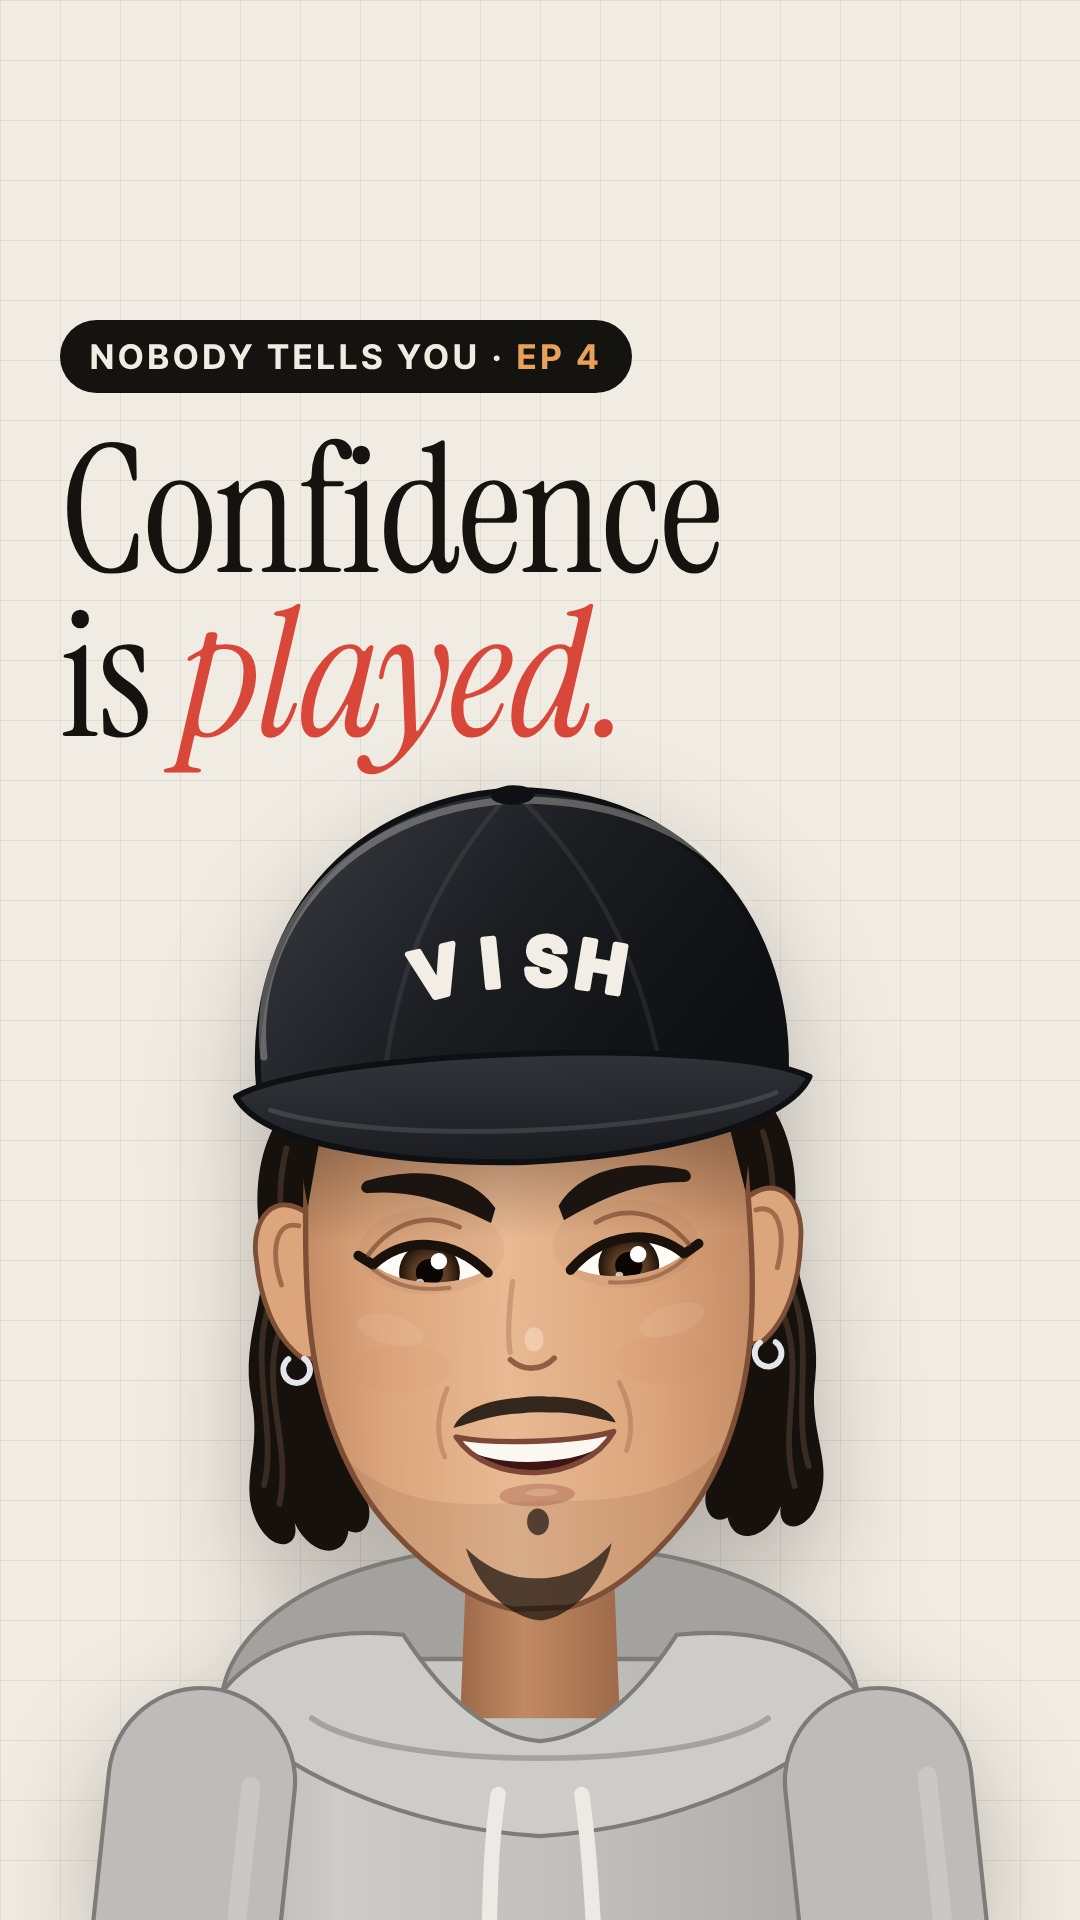
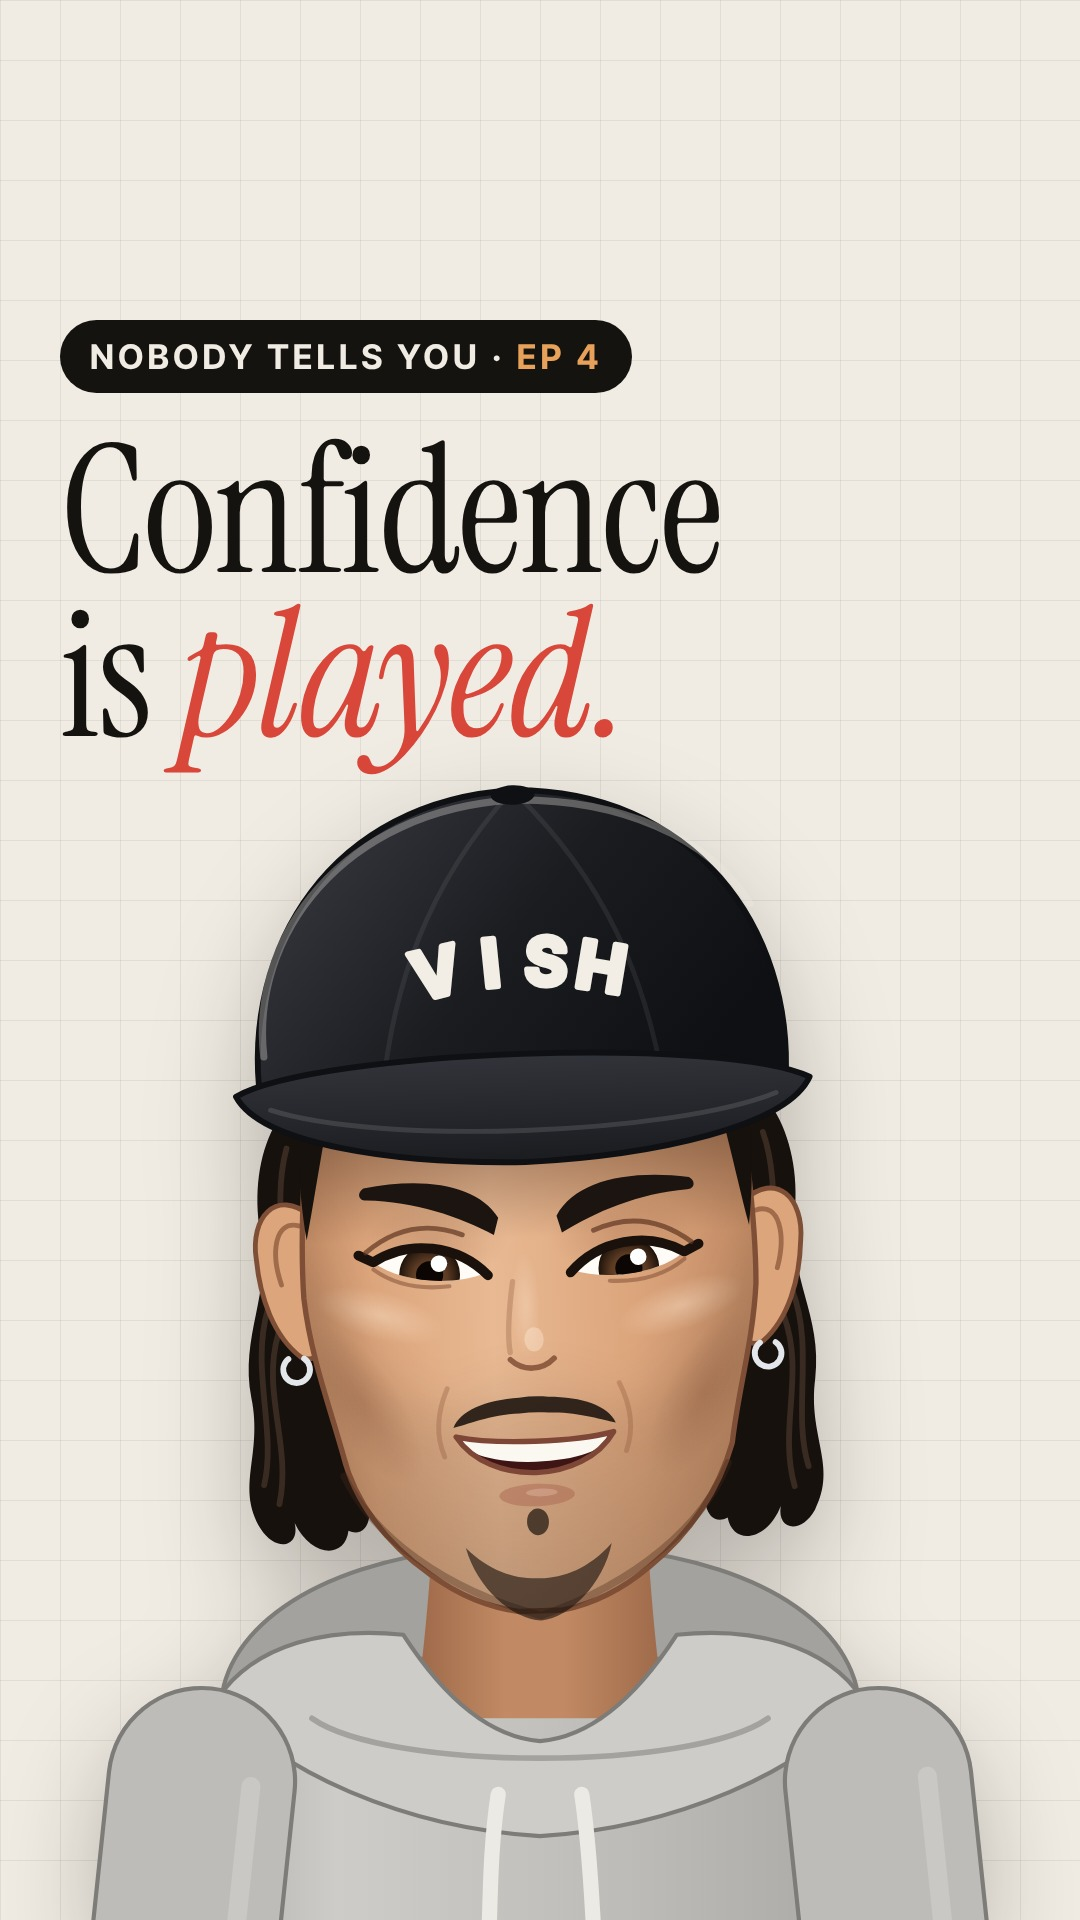
Mascot: a model's face that still looks like Vish: lit cheekbones with a soft hollow, a light clean beard shade, a stronger neck, hooded eyes, lower brows
Claude-Session: https://claude.ai/code/session_01BUA343UgLrj2H1ng6qoZ8Y

Changed region(s): [[0.275, 0.5938, 0.7028, 0.9062], [0.3361, 0.5938, 0.4583, 0.6875], [0.5194, 0.5938, 0.6417, 0.6875]]

diff --git a/templates/video/char/vishcap.js b/templates/video/char/vishcap.js
@@ -46,7 +46,7 @@
     point_left: {L: {u: 172, f: 178, h: "point"}, R: {u: 83, f: 87, h: "relax"}, turn: -0.35, look: [-0.8, 0]},
     point_right: {L: {u: 97, f: 93, h: "relax"}, R: {u: 8, f: 2, h: "point"}, turn: 0.35, look: [0.8, 0]},
     present: {L: {u: 97, f: 93, h: "relax"}, R: {u: 40, ul: 0.9, f: -12, h: "open", ha: -30}, turn: 0.3, look: [0.7, 0.1]},
-    think: {L: {u: 70, ul: 0.8, f: 2, h: "fist"}, R: {u: 118, ul: 0.62, f: -110, fl: 0.92, h: "chin"}, expr: "thought"},
+    think: {L: {u: 70, ul: 0.8, f: 2, h: "fist"}, R: {u: 118, ul: 0.62, f: -108, fl: 0.84, h: "chin"}, expr: "thought"},
     arms: {L: {u: 80, ul: 0.72, f: -2, fl: 1.1, h: "tuck"}, R: {u: 100, ul: 0.72, f: 182, fl: 1.1, h: "fist", ha: 150}, order: ["L", "R"]},
     thumbs: {L: {u: 96, f: 92, h: "relax"}, R: {u: 100, ul: 0.7, f: -50, fl: 0.9, h: "thumb", ha: 0}},
     wave: {L: {u: 97, f: 93, h: "relax"}, R: {u: 18, ul: 0.9, f: -80, h: "palm"}, wave: 1}};
@@ -61,6 +61,25 @@
     line(); g.strokeStyle = col; g.lineWidth = w; g.stroke();
   }
   const pt = (o, a, l) => [o[0] + Math.cos(a * R) * l, o[1] + Math.sin(a * R) * l];
+  function blob(g, x, y, rx, ry, rot, rgb, a) {  // a soft elliptical shade: rgb is "rgba(r,g,b," and a its peak alpha
+    g.save(); g.translate(x, y); g.rotate(rot); g.scale(rx, ry);
+    const gr = g.createRadialGradient(0, 0, 0, 0, 0, 1); gr.addColorStop(0, rgb + a + ")"); gr.addColorStop(1, rgb + "0)");
+    g.fillStyle = gr; g.beginPath(); g.arc(0, 0, 1, 0, Math.PI * 2); g.fill(); g.restore();
+  }
+  const OFF = new WeakMap();
+  function offscreen(g) {  // a scratch canvas the size of the target, for masked layers
+    let c = OFF.get(g.canvas);
+    if (!c || c.width !== g.canvas.width || c.height !== g.canvas.height) { c = document.createElement("canvas"); c.width = g.canvas.width; c.height = g.canvas.height; OFF.set(g.canvas, c); }
+    return c;
+  }
+  const STUB = new WeakMap();
+  function stubble(g) {  // fine dark dots, the same every frame
+    if (STUB.has(g)) return STUB.get(g);
+    const c = document.createElement("canvas"); c.width = c.height = 48; const x = c.getContext("2d"); let s = 11;
+    const rnd = () => (s = (s * 16807) % 2147483647) / 2147483647;
+    for (let i = 0; i < 620; i++) { x.fillStyle = `rgba(28,17,11,${0.3 + rnd() * 0.45})`; x.beginPath(); x.arc(rnd() * 48, rnd() * 48, 0.28 + rnd() * 0.36, 0, Math.PI * 2); x.fill(); }
+    const pat = g.createPattern(c, "repeat"); STUB.set(g, pat); return pat;
+  }
 
   // ----------------------------------------------------------------------------------------------------- the head
   // head space: the eye line's centre is (0, 0); the face is about 190 wide; the chin is at y 140; the cap top at -188
@@ -99,39 +118,54 @@
       g.restore();
       if (away < 0.5) { g.strokeStyle = C.silver; g.lineWidth = 2.4; g.beginPath(); g.arc(ex + sd * 8, 45, 5.5, -0.3 * Math.PI, 1.3 * Math.PI); g.stroke(); }
     }
-    // ---- the face: high cheekbones, a tapered jaw, a defined chin
+    // ---- the face, a model's: high cheekbones, a slight hollow under them, a sharp jaw, a strong chin
     const fo = new Path2D();
-    const pts = [[-87, -86], [-90, -40, -93, -2, -91, 26], [-89, 60, -78, 90, -60, 110], [-44, 128, -26, 140, -11, 143], [11, 143], [26, 140, 44, 128, 60, 110],
-      [78, 90, 89, 60, 91, 26], [93, -2, 90, -40, 87, -86]];
+    const pts = [[-86, -86], [-90, -50, -94, -12, -93, 16], [-91, 40, -84, 60, -79, 80], [-75, 98, -63, 115, -45, 128], [-33, 137, -21, 142, -9, 144], [9, 144],
+      [21, 142, 33, 137, 45, 128], [63, 115, 75, 98, 81, 80], [84, 60, 91, 40, 93, 16], [94, -12, 90, -50, 86, -86]];
     fo.moveTo(OX(pts[0][0]), pts[0][1]);
     for (const p of pts.slice(1)) {
       if (p.length === 2) fo.lineTo(OX(p[0]), JY(p[1])); else fo.bezierCurveTo(OX(p[0]), JY(p[1]), OX(p[2]), JY(p[3]), OX(p[4]), JY(p[5]));
     }
     fo.closePath();
     const fg = g.createLinearGradient(OX(-96), 0, OX(96), 0);
-    fg.addColorStop(0, C.skinS); fg.addColorStop(0.18, C.skin); fg.addColorStop(0.45, C.skinL); fg.addColorStop(0.75, C.skin); fg.addColorStop(1, C.skinS);
+    fg.addColorStop(0, C.skinS); fg.addColorStop(0.16, C.skin); fg.addColorStop(0.42, C.skinL); fg.addColorStop(0.72, C.skin); fg.addColorStop(1, C.skinS);
     g.fillStyle = fg; g.fill(fo);
     g.save(); g.clip(fo);
-    // stubble on the jaw and around the mouth, very light
-    g.fillStyle = "rgba(42,26,18,.08)";
-    g.beginPath(); g.moveTo(OX(-96), JY(50)); g.bezierCurveTo(OX(-84), JY(116), OX(-34), JY(148), FX(0), JY(148)); g.bezierCurveTo(OX(34), JY(148), OX(84), JY(116), OX(96), JY(50));
-    g.bezierCurveTo(OX(80), JY(96), FX(46), JY(104), FX(0), JY(100)); g.bezierCurveTo(FX(-46), JY(104), OX(-80), JY(96), OX(-96), JY(50)); g.fill();
+    // contour: a soft shadow under each cheekbone towards the mouth, a light on the bone above it, a light down the nose
+    for (const sd of [-1, 1]) {
+      blob(g, OX(sd * 70), JY(60), 15, 38, sd * 0.55, "rgba(118,62,38,", sd * tu > 0 ? 0.3 : 0.22);
+      blob(g, FX(sd * 62), 24, 27, 10, sd * -0.3, "rgba(255,234,210,", 0.42);
+    }
+    blob(g, FX(-2) + tu * 8, 22, 6, 22, 0, "rgba(255,236,214,", 0.3);
+    // stubble: a short, even shadow on the jaw, chin, upper lip and up the cheeks to the sideburns, fading at the cheekbones
+    const bd = new Path2D();
+    bd.moveTo(OX(-96), -24); bd.bezierCurveTo(OX(-86), 18, OX(-66), 48, FX(-38), JY(64));
+    bd.bezierCurveTo(FX(-28), 58, FX(-16), 52, FX(0), 52); bd.bezierCurveTo(FX(16), 52, FX(28), 58, FX(38), JY(64));
+    bd.bezierCurveTo(OX(66), 48, OX(86), 18, OX(96), -24); bd.lineTo(OX(120), 170); bd.lineTo(OX(-120), 170); bd.closePath();
+    // drawn through a soft mask (the region, blurred) so it fades up the cheeks with no edge
+    const T = g.getTransform(), k = Math.hypot(T.a, T.b), oc = offscreen(g), o2 = oc.getContext("2d");
+    o2.setTransform(1, 0, 0, 1, 0, 0); o2.clearRect(0, 0, oc.width, oc.height); o2.setTransform(T);
+    o2.filter = `blur(${Math.max(1, 9 * k)}px)`; o2.fillStyle = "#000"; o2.fill(bd); o2.filter = "none";
+    o2.globalCompositeOperation = "source-in";
+    const sg = o2.createRadialGradient(FX(0), 6, 50, FX(0), 30, 150);
+    sg.addColorStop(0, "rgba(40,26,18,.07)"); sg.addColorStop(0.5, "rgba(40,26,18,.17)"); sg.addColorStop(1, "rgba(34,22,16,.27)");
+    o2.fillStyle = sg; o2.fillRect(-150, -60, 300, 240);
+    o2.globalCompositeOperation = "source-atop"; o2.globalAlpha = 0.28; o2.fillStyle = stubble(o2); o2.fillRect(-150, -60, 300, 240);
+    o2.globalAlpha = 1; o2.globalCompositeOperation = "source-over";
+    g.save(); g.setTransform(1, 0, 0, 1, 0, 0); g.drawImage(oc, 0, 0); g.restore();
     // the cap's shadow on the forehead and the eye sockets
     const sh = g.createLinearGradient(0, -74, 0, -6); sh.addColorStop(0, "rgba(46,24,14,.6)"); sh.addColorStop(1, "rgba(46,24,14,0)");
     g.fillStyle = sh; g.fillRect(-130, -96, 260, 92);
-    g.fillStyle = "rgba(120,70,44,.06)";
-    for (const sd of [-1, 1]) { g.beginPath(); g.ellipse(FX(sd * 40), -2, 30, 18, 0, 0, Math.PI * 2); g.fill(); }
-    // warm cheeks and a light on the cheekbones
-    for (const sd of [-1, 1]) {
-      g.fillStyle = "rgba(214,118,92,.05)"; g.beginPath(); g.ellipse(FX(sd * 54), 46, 20, 10, 0, 0, Math.PI * 2); g.fill();
-      g.fillStyle = "rgba(255,226,196,.12)"; g.beginPath(); g.ellipse(FX(sd * 58), 30, 14, 6, sd * -0.3, 0, Math.PI * 2); g.fill();
-    }
+    for (const sd of [-1, 1]) blob(g, FX(sd * 38), -6, 30, 16, 0, "rgba(110,60,36,", 0.16);
     g.restore();
     g.strokeStyle = C.line; g.lineWidth = 2.2; g.stroke(fo);
-    // temple hair in front of the ears, under the cap
+    // a crisp jaw: a darker line under the jaw edge where it meets the neck
+    g.strokeStyle = "rgba(70,40,26,.35)"; g.lineWidth = 3;
+    g.beginPath(); g.moveTo(OX(-79), JY(88)); g.bezierCurveTo(OX(-68), JY(112), OX(-40), JY(134), FX(0), JY(146)); g.bezierCurveTo(OX(40), JY(134), OX(68), JY(112), OX(79), JY(88)); g.stroke();
+    // sideburns in front of the ears, under the cap, faded into the stubble
     for (const sd of [-1, 1]) {
-      g.fillStyle = C.hair; g.beginPath(); g.moveTo(OX(sd * 90), -82); g.bezierCurveTo(OX(sd * 94), -60, OX(sd * 93), -40, OX(sd * 90), -22);
-      g.bezierCurveTo(OX(sd * 86), -40, OX(sd * 82), -62, OX(sd * 76), -82); g.closePath(); g.fill();
+      g.fillStyle = C.hair; g.beginPath(); g.moveTo(OX(sd * 89), -82); g.bezierCurveTo(OX(sd * 94), -56, OX(sd * 94), -30, OX(sd * 91), -8);
+      g.bezierCurveTo(OX(sd * 86), -30, OX(sd * 81), -60, OX(sd * 74), -82); g.closePath(); g.fill();
     }
 
     // ---- eyes, brows
@@ -200,35 +234,35 @@
       g.beginPath(); g.moveTo(ix, cy + 1); g.bezierCurveTo(cx - sd * 9, cy + 8, cx + sd * 9, cy + 8, ox, cy); g.stroke();
       return;
     }
-    const up = 15 * open, dn = 10 * Math.min(open, 1) * (1 - sq * 0.55);
+    const up = 12.5 * open, dn = 9 * Math.min(open, 1) * (1 - sq * 0.55);
     const al = new Path2D();
-    al.moveTo(ix, cy + 1); al.bezierCurveTo(cx - sd * 10, cy - up, cx + sd * 10, cy - up - 1, ox, cy - 3);
-    al.bezierCurveTo(cx + sd * 11, cy + dn, cx - sd * 10, cy + dn + 1, ix, cy + 1); al.closePath();
+    al.moveTo(ix, cy + 2); al.bezierCurveTo(cx - sd * 12, cy - up + 1, cx + sd * 8, cy - up - 2, ox, cy - 4);
+    al.bezierCurveTo(cx + sd * 12, cy + dn - 1, cx - sd * 10, cy + dn + 1, ix, cy + 2); al.closePath();
     g.fillStyle = C.white; g.fill(al);
     g.save(); g.clip(al);
-    const px = cx + look[0] * 8, py = cy + 1 + look[1] * 4;
+    const px = cx + look[0] * 8, py = cy + 2 + look[1] * 3.5;
     const ig = g.createRadialGradient(px, py + 3, 1, px, py, 12.5); ig.addColorStop(0, "#7A5132"); ig.addColorStop(0.55, C.iris); ig.addColorStop(1, C.irisD);
     g.fillStyle = ig; g.beginPath(); g.arc(px, py, 12.5, 0, Math.PI * 2); g.fill();
     g.fillStyle = "#0B0604"; g.beginPath(); g.arc(px, py, 5.6, 0, Math.PI * 2); g.fill();
     g.fillStyle = "#fff"; g.beginPath(); g.arc(px + 4, py - 4.5, 3.4, 0, Math.PI * 2); g.fill();
     g.fillStyle = "rgba(255,255,255,.75)"; g.beginPath(); g.arc(px - 4, py + 4, 1.6, 0, Math.PI * 2); g.fill();
-    g.fillStyle = "rgba(110,62,40,.3)"; g.fillRect(cx - 32, cy - up - 4, 64, 8);  // the lid's shadow on the eyeball
+    g.fillStyle = "rgba(90,50,32,.38)"; g.fillRect(cx - 32, cy - up - 5, 64, 9);  // the lid's shadow on the eyeball
     g.restore();
     g.strokeStyle = C.lash; g.lineWidth = 4; g.lineCap = "round"; g.lineJoin = "round";
-    g.beginPath(); g.moveTo(ix - sd * 1, cy + 2); g.bezierCurveTo(cx - sd * 10, cy - up, cx + sd * 10, cy - up - 1, ox, cy - 3); g.lineTo(ox + sd * 6, cy - 7); g.stroke();
-    g.strokeStyle = "rgba(110,62,40,.6)"; g.lineWidth = 1.9;  // the crease above the lid
-    g.beginPath(); g.moveTo(cx - sd * 13, cy - up - 4); g.bezierCurveTo(cx - sd * 2, cy - up - 10, cx + sd * 13, cy - up - 9, ox + sd * 2, cy - 7); g.stroke();
+    g.beginPath(); g.moveTo(ix - sd * 1, cy + 3); g.bezierCurveTo(cx - sd * 12, cy - up + 1, cx + sd * 8, cy - up - 2, ox, cy - 4); g.lineTo(ox + sd * 6, cy - 7); g.stroke();
+    g.strokeStyle = "rgba(96,54,34,.7)"; g.lineWidth = 2;  // the crease, close over the lid (a slightly hooded, intense eye)
+    g.beginPath(); g.moveTo(cx - sd * 14, cy - up - 3); g.bezierCurveTo(cx - sd * 2, cy - up - 8, cx + sd * 12, cy - up - 8, ox + sd * 3, cy - 8); g.stroke();
     g.strokeStyle = "rgba(110,62,40,.45)"; g.lineWidth = 1.7;  // the lower lid
     g.beginPath(); g.moveTo(cx - sd * 8, cy + dn + 1); g.bezierCurveTo(cx + sd * 4, cy + dn + 2, cx + sd * 14, cy + dn, ox, cy - 1); g.stroke();
   }
 
   function brow(g, FX, sd, raise, inner) {
-    const y = -22 - raise, yi = y - inner;
+    const y = -18 - raise, yi = y - inner;
     const b = new Path2D();
-    b.moveTo(FX(sd * 13), yi + 5);
-    b.bezierCurveTo(FX(sd * 22), yi - 9, FX(sd * 42), y - 14, FX(sd * 66), y - 8);
-    b.bezierCurveTo(FX(sd * 69), y - 6, FX(sd * 68), y - 3, FX(sd * 65), y - 3);
-    b.bezierCurveTo(FX(sd * 46), y - 4, FX(sd * 30), yi + 3, FX(sd * 15), yi + 11);
+    b.moveTo(FX(sd * 12), yi + 5);
+    b.bezierCurveTo(FX(sd * 20), yi - 9, FX(sd * 42), y - 13, FX(sd * 67), y - 9);
+    b.bezierCurveTo(FX(sd * 70), y - 7, FX(sd * 69), y - 4, FX(sd * 66), y - 4);
+    b.bezierCurveTo(FX(sd * 46), y - 3, FX(sd * 28), yi + 4, FX(sd * 14), yi + 12);
     b.closePath();
     g.fillStyle = C.brow; g.fill(b);
   }
@@ -293,7 +327,7 @@
     const cb = new Path2D();
     cb.moveTo(FX(-30), JY(118)); cb.bezierCurveTo(FX(-20), JY(128), FX(-10), JY(131), FX(0), JY(131)); cb.bezierCurveTo(FX(10), JY(131), FX(20), JY(128), FX(30), JY(118));
     cb.bezierCurveTo(FX(26), JY(134), FX(12), JY(147), FX(0), JY(148)); cb.bezierCurveTo(FX(-12), JY(147), FX(-26), JY(134), FX(-30), JY(118)); cb.closePath();
-    g.fillStyle = "rgba(26,18,14,.72)"; g.fill(cb);
+    g.fillStyle = "rgba(26,18,14,.62)"; g.fill(cb);
   }
 
   // ----------------------------------------------------------------------------------------------------- hands
@@ -436,9 +470,9 @@
       g.restore();
       // neck
       g.save(); g.translate(turn * 14, 0);
-      const ng = g.createLinearGradient(-40, 0, 40, 0); ng.addColorStop(0, C.skinD); ng.addColorStop(0.4, C.skinS); ng.addColorStop(1, C.skinD);
-      fillStroke(g, P(g, "M-36 -1440 L36 -1440 L42 -1290 L-42 -1290 Z"), ng, null, 0);
-      g.fillStyle = "rgba(80,46,30,.35)"; g.fillRect(-40, -1426, 80, 44);
+      const ng = g.createLinearGradient(-62, 0, 62, 0); ng.addColorStop(0, C.skinD); ng.addColorStop(0.35, C.skinS); ng.addColorStop(0.6, C.skinS); ng.addColorStop(1, C.skinD);
+      fillStroke(g, P(g, "M-54 -1440 L54 -1440 C56 -1380 60 -1330 66 -1290 L-66 -1290 C-60 -1330 -56 -1380 -54 -1440 Z"), ng, null, 0);
+      g.fillStyle = "rgba(80,46,30,.35)"; g.fillRect(-58, -1426, 116, 44);
       // the hood's front rim and the drawstrings
       g.save(); g.scale(bx, 1);
       const rim = P(g, "M-170 -1300 C-150 -1330 -110 -1338 -72 -1334 C-50 -1300 -26 -1280 0 -1278 C26 -1280 50 -1300 72 -1334 C110 -1338 150 -1330 170 -1300 C140 -1262 70 -1232 0 -1228 C-70 -1232 -140 -1262 -170 -1300 Z");
